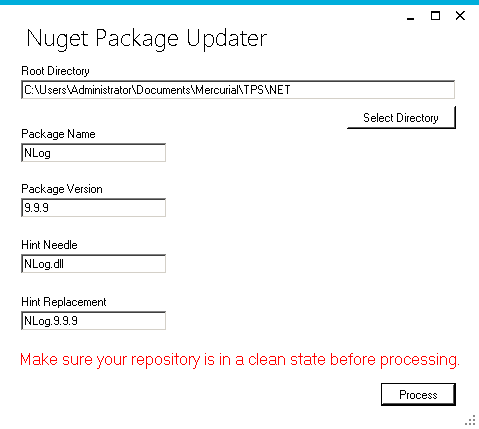
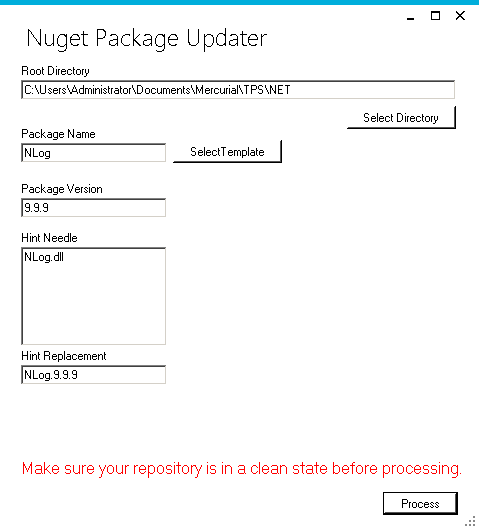
Updated readme

diff --git a/Readme.md b/Readme.md
@@ -12,6 +12,11 @@ This tool does not add or remove dlls. If your package upgrade adds a dependency
 This tool currently only supports bumping the version on a package. If your package contains more than one dll you can run it multiple times and just change the hintString
 and hintNeedle for each of your dlls.
 
+Note that this tool removes the version from the reference. This is because I need to support an app that copies files over other projects and assembly binding errors are annoying.
+
+When a project is executed a json file is written to a templates folder where the aps is running from. These json files can be loaded to save time.
+
+The Hint Needle supports multiple dlls. This is for packages that have multiple dlls. 
 
 ![Screenshot](readme/app.PNG)
 
@@ -44,7 +49,7 @@ becomes
 becomes 
 
 ```
-<Reference Include="NLog, Version=9.9.9, Culture=neutral, PublicKeyToken=5120e14c03d0593c, processorArchitecture=MSIL">
+<Reference Include="NLog, Culture=neutral, PublicKeyToken=5120e14c03d0593c, processorArchitecture=MSIL">
   <HintPath>..\packages\NLog.9.9.9\lib\net45\NLog.dll</HintPath>
   <Private>True</Private>
 </Reference>
